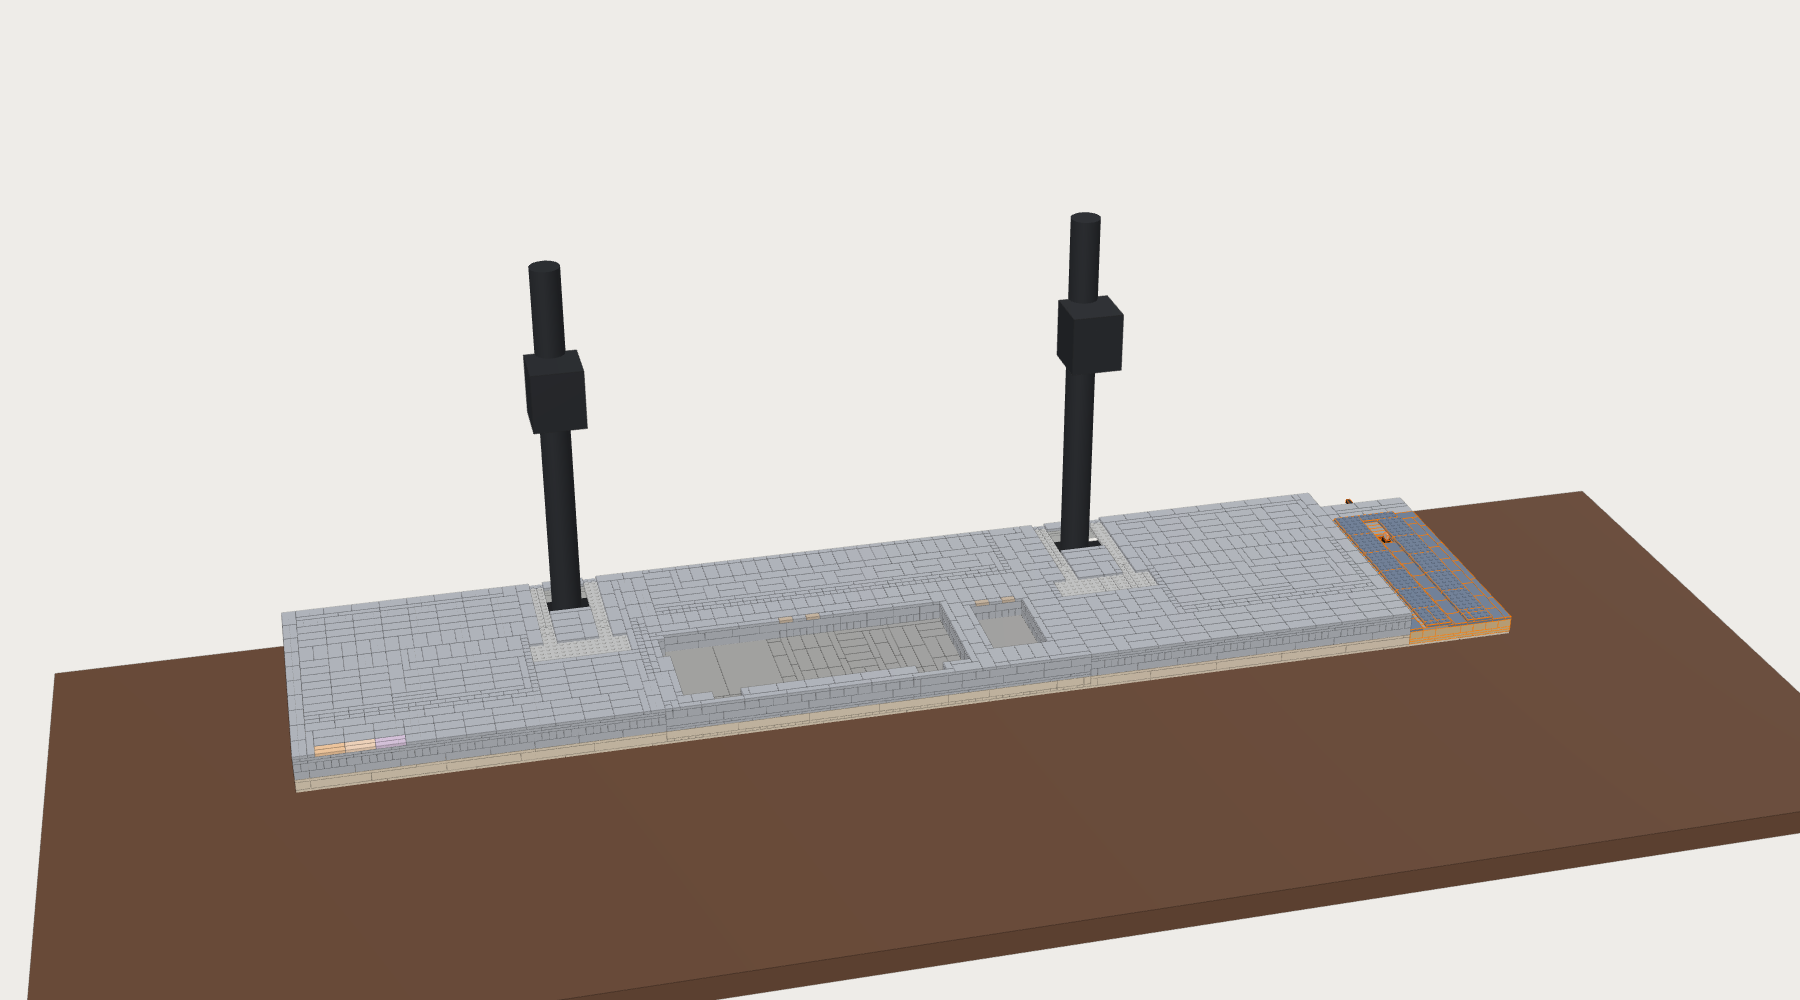
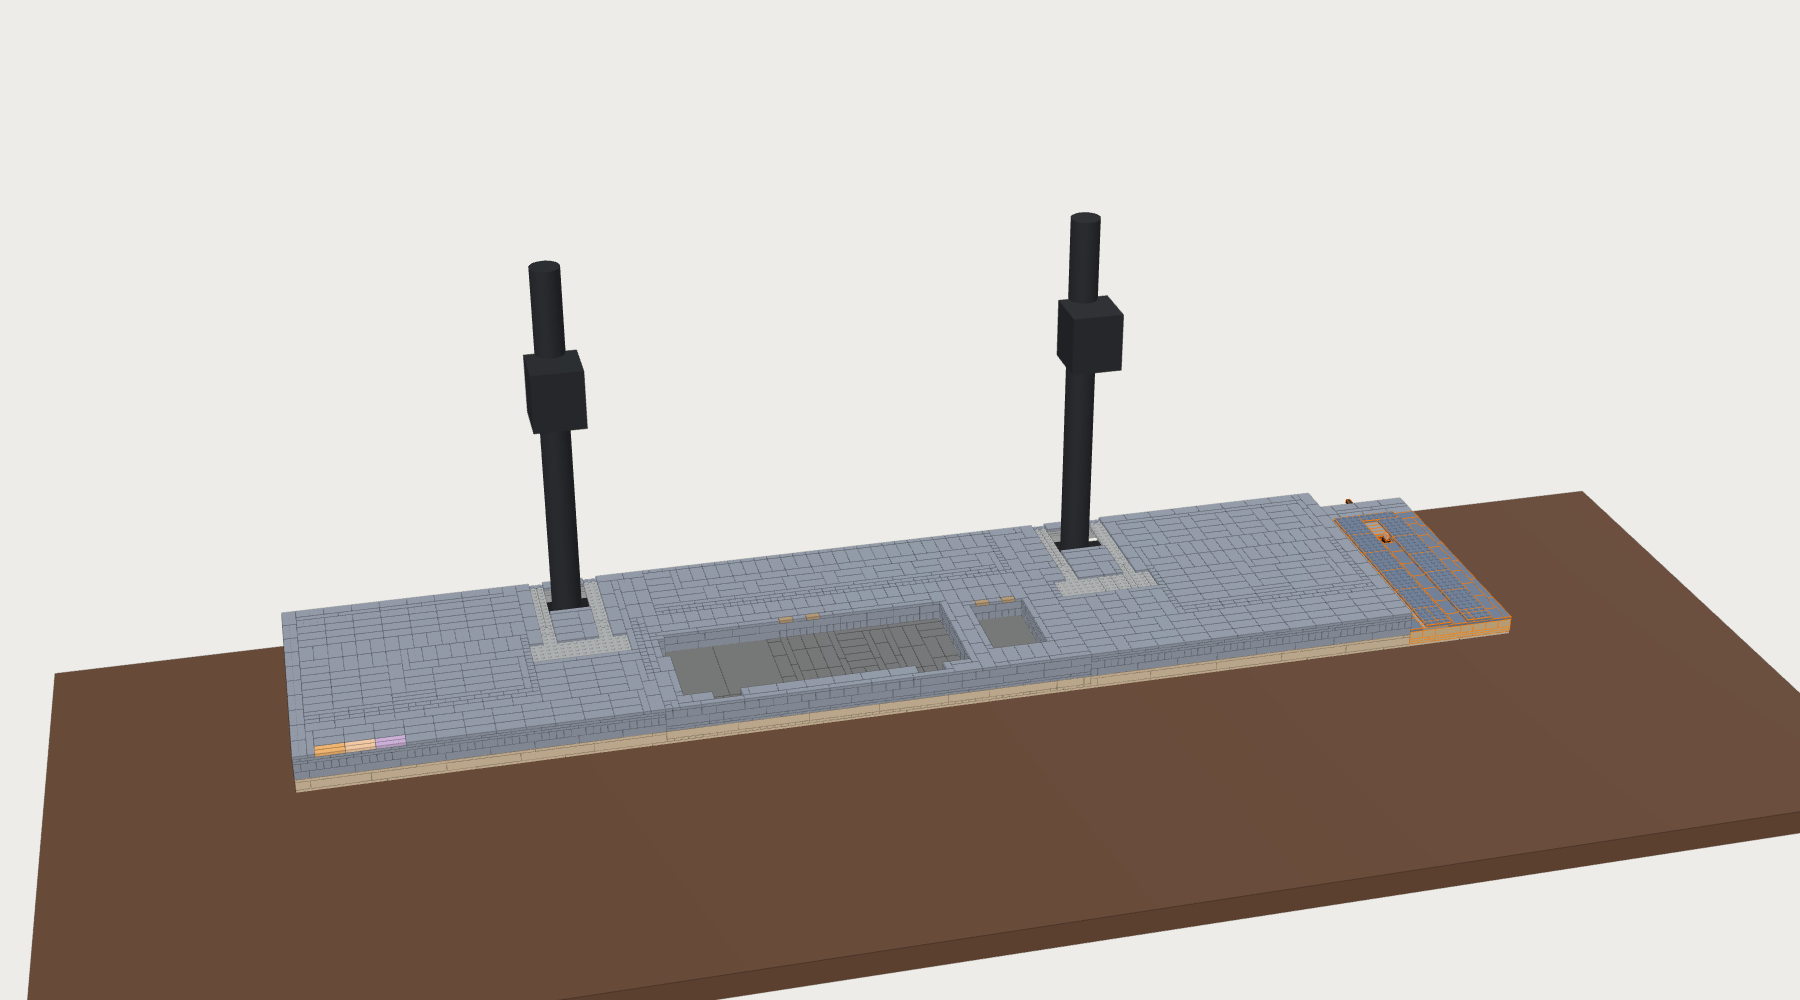
LEGO station: README, final renders and lite variant
README for the full station: monitor research and what to measure, how
the monitors mount on the clamped VESA poles, base layout, colours and
Sand Blue fallbacks, build order, cable routing, safety, checks and
uncertainties. Final overview, back, exploded, neck section and 16 step
renders; lite variant files under station/lite. Pointer from the pocket
base README.

Claude-Session: https://claude.ai/code/session_015TFqkUDL9DQ7CfKB1UTNsy

Changed region(s): [[0.1556, 0.496, 0.7778, 0.775]]

diff --git a/night-array/kit/lego/station/README.md b/night-array/kit/lego/station/README.md
@@ -1,0 +1,196 @@
+# Night Array station: the full LEGO build
+
+The whole Night Array desk station in LEGO: a long hollow base with the keyboard and mouse charging pockets, two short necks, one brick-built frame round two 27" screens with a centre seam, and the laptop dock at the right end. Sand Blue with a Tan lower band, black pocket floors, gold charge marks and pastel accents, after the concept image.
+
+![overview](overview.png)
+
+Everything here is generated by [`../make_lego_station.py`](../make_lego_station.py). It reuses the pocket tray from [`../make_lego_base.py`](../make_lego_base.py) and the dock from [`../make_lego_dock.py`](../make_lego_dock.py); read [`../README.md`](../README.md) and [`../dock/README.md`](../dock/README.md) for those two parts, because their fitting instructions (pads, foam, Newnex plug, felt) are unchanged and are not repeated in full here.
+
+**The one rule the design is built round: LEGO never carries a monitor.** Each monitor hangs on a steel VESA pole mount that is clamped to the desk. The necks and the frame are cladding.
+
+## At a glance
+
+| | Full | Lite (`--lite`) |
+|---|---|---|
+| Size | 1408 × 320 × 534 mm (176 × 40 studs) | same |
+| LEGO parts | **5,217** in 140 part/colour lines | **4,469** |
+| LEGO cost (estimate, ±40 %, no shipping) | about **$1,310** | about **$1,130** |
+| Parts that are not LEGO | about **$116** ([list](non-lego-parts.md)) | same |
+| LEGO weight (estimate) | 7.7 kg | 7.3 kg |
+
+Lite leaves the Sand Blue tiles off the deck except for a two-stud border, so the deck is Light Bluish Gray with studs showing ([picture](lite/overview.png)). Everything else is the same. Its files are in [`lite/`](lite/).
+
+| Section | What it is | Parts | Est. cost |
+|---|---|---|---|
+| base | floor, outer wall, hidden ribs, deck plates, deck tiles, strip behind the dock | 2,025 (lite 1,325) | $583 (lite $411) |
+| pockets | the keyboard + mouse pocket block with the pad cavities | 784 | $212 |
+| dock | laptop dock | 668 | $132 |
+| necks | two necks | 378 | $84 |
+| frame | screen frame | 1,362 | $300 |
+
+By colour (full): Sand Blue 3,528, Light Bluish Gray 1,219 (all hidden except where noted below), Tan 327, Black 58, Light Nougat 37, Lavender 26, Bright Light Orange 18, Pearl Gold 4.
+
+The station is 1.41 m wide because two 27" monitors side by side are 1.24 m and the dock stands beside them. The keyboard and mouse pockets are the real size of the Keychron K3 Ultra and the Lenovo X9, so they look smaller against the base than in the concept image.
+
+## Files
+
+| File | What it is |
+|---|---|
+| `night-array-station.ldr` | LDraw model (MPD inside one `.ldr`): a main model plus one submodel per section (`station-base.ldr`, `-pockets`, `-dock`, `-necks`, `-frame`), with STEPs. Opens in BrickLink Studio, LeoCAD, LDCad |
+| `parts.csv` | every part/colour line with quantity, estimated price and how many LEGO sets contain that part in that colour |
+| `bricklink-wanted.xml` | BrickLink wanted list: Wanted → Upload → paste |
+| `bricks.json` | every part as a box in mm, same schema as [`../bricks.json`](../bricks.json) and [`../dock/bricks.json`](../dock/bricks.json), plus `section` on each brick; `reference[]` holds both monitors, the stands, bars, keyboard, mouse, pads, Plugable box and laptop |
+| `non-lego-parts.md`, `.json` | stands, bars, stand-offs, felt, foam, with prices; pointers into [`../../parts.json`](../../parts.json) for the electronics |
+| `checks.json` | the 20 self-checks, sizes, part count and cost by section |
+| `part-colour-availability.json` | which part exists in which colour (Rebrickable set inventories, 2026-11-11); the script only uses a part in a colour that at least 5 sets contain |
+| `overview.png`, `back.png`, `exploded-sections.png`, `section-neck.png`, `steps/step-01…16.png` | renders |
+| `lite/` | the same files for the lite variant |
+
+## Your two monitors: what was found, and what you must confirm
+
+The opening for each monitor is cut to that monitor, so the numbers matter to about 1 mm. **Measure both monitors before you order bricks.**
+
+| | Left (default) | Right (default) |
+|---|---|---|
+| Model used | **Acer KB272 EBI** (`UM.HK2AA.E02`) | **Sceptre E275W-FPT** |
+| Why this one | "KB272" with no suffix: the EBI is the common US model | the label says "F27". No Sceptre page uses that name. One marketplace listing calls a 27" FHD 75 Hz HDMI ×2 + VGA Sceptre "F27", which matches the E275W-FPT family |
+| Housing W × H | 614.7 × 367.1 mm | 612.6 × 359.2 mm |
+| Depth | 66.7 mm at the rear bulge | 28 mm at the edge; **45 mm at the bulge is a guess** |
+| Weight without stand | 4.73 kg (may include the stand; then about 3.4 kg) | 3.00 kg |
+| VESA | 100 × 100 (one review says 75) | 100 × 100, M4 × 10 |
+| Power | internal supply, AC cord (to confirm) | external 12 V 3 A adapter |
+| Ports | HDMI 1.4 + VGA, rear, plugs point down | 2 × HDMI + VGA + audio, rear |
+| Confidence | medium | medium-low that it is your model; the E275W-FPT figures themselves are Sceptre's |
+| Sources | acer.com product page, Acer store, devicebeast, displayninja | sceptre.com support sheet and product page |
+
+Other variants are already in the `MONITORS` block: `acer_kb272_e0bi` (newer slim chassis, 611.5 × 361.3 × 45.2 mm, external adapter; low confidence), `sceptre_e275w_fpt1`, `sceptre_e275w_19203rs` (VESA **75**, internal supply, 4.3 kg) and `sceptre_e275w_19203rd` (thick bezels, 623.8 mm wide).
+
+Measure and confirm, for each monitor:
+
+1. The exact model on the rear label (full string with the suffix).
+2. Housing width and height without the stand, to 0.5 mm.
+3. VESA holes: are there four threaded holes on the back, and are they 75 or 100 mm apart?
+4. `vesa_to_front`: from the flat face the VESA plate bolts onto to the front glass.
+5. `top_edge_depth`: how thick the housing is along its top edge.
+6. Bezels: from the housing edge to the first lit pixel at the sides, top and bottom (show a white screen).
+7. Where the ports and the buttons are, and which way the plugs point. If the buttons are on the bottom edge, tell the script (`"buttons": "bottom"`) and leave a finger gap in the bottom beam under them.
+8. Internal power supply or external brick.
+
+Then edit the `MONITORS` block at the top of `make_lego_station.py` (or add a new entry) and run:
+
+```
+python3 night-array/kit/lego/make_lego_station.py --left <key> --right <key>
+```
+
+The frame width, base width, both openings, the bezel lips, the necks, the stand-offs and every check follow from that block. The script exits non-zero if a check fails.
+
+**Taking the Sceptre apart: don't.** There is no benefit, because the LEGO bezel already hides the housing. An opened monitor exposes the backlight driver and, on models with an internal supply, mains; the panel's edge is fragile without its housing; and a bare panel has no VESA mounting points, so nothing safe would be left to hang it from. The design assumes two whole monitors.
+
+**If a monitor has no VESA holes.** All the candidate models above have them. If yours does not, use a clamp-on adapter (for example VIVO `MOUNT-UVM01`, $39.99) between the monitor and the pole mount. Its arms grip the top and bottom edge of the housing, so three things change: raise the top and bottom clearance for that opening so the arms fit (the opening check will then need its limit widened), expect the retaining lips to move or go, and add the adapter's thickness to `vesa_to_front`.
+
+## How the monitors are mounted
+
+![section through a neck](section-neck.png)
+
+Chosen structure: **two VIVO `STAND-V001C` single-monitor pole mounts, one per monitor, clamped to the back edge of the desk.** $34.99 each; steel pole 17.7 in (450 mm), fixed tilt bracket, rated 17.6 lb (8 kg), VESA 75 and 100, C-clamp for desks 10–88 mm thick or a grommet bolt through a hole. The monitors are flat, in one plane, with no toe-in.
+
+Why this one:
+
+- A freestanding stand (VIVO `STAND-V001H`) has a V-shaped steel foot 15.5 × 11 in that would lie under the charging pads, inside the 20 mm steel keep-out, and it cannot resist a 50 N push at the top of the screen by itself.
+- One dual stand (VIVO `STAND-V002F`) has one centre pole, so it gives no pole to put inside either neck, and the same foot problem.
+- With clamped poles the desk takes the load. The checks give: 50 N at the top of the screen plus the monitor's own weight is about 30 N·m at the clamp, which is 660 N in the clamp screw (margin ×7.5 on an assumed 5 kN) and 24 MPa in the pole (×10). A 10° tilt alone is 7 N·m.
+- Not clamped, the same push would tip the whole station away from you (margin ×0.98), and only if LEGO held the poles. So the clamps, or the grommet bolts, are mandatory.
+
+How it goes together:
+
+- The base's back edge sits on the desk's back edge. Each pole stands about 40 mm in from that edge, inside a clamp bay: a 112 × 96 mm gap in the floor with a 22 mm high doorway in the back wall, so the clamp plate sits on the desk itself, not on LEGO.
+- The pole comes up through a hole in the deck (6 or 7 studs wide, 7 long) between the two cheeks of the neck, with at least 6.5 mm of air all round. Push a ring of foam between pole and cheeks.
+- The bracket holds the VESA plate at about 323 mm above the desk. The thinner monitor gets four M4 stand-offs (22 mm with the default numbers) so both glass faces are in one plane, 4.3 mm behind the bezel bricks.
+- The frame stands on the two pedestals. It does not touch the monitors: 1.7–2.7 mm of air round each housing (the left opening needs a 2 mm felt strip on each side face, because the stud grid would otherwise leave 4.65 mm). The bezel lips overlap the black border of each screen without reaching the picture.
+- The frame cannot fall forward: three short blocks under the top beam hang 9.6 mm down behind each monitor's top edge. Pad them with foam to leave about 2 mm.
+- LEGO alone would sag over 1.28 m, so each beam has an aluminium flat bar on edge in a slot one stud wide and two bricks high: 48 in in the bottom beam, 36 in in the top beam. Deflection with the bars is about 0.2 mm.
+- The frame is 40 mm deep and has no back, so the monitors' vents, ports and rear buttons stay open, and nothing is sealed over an internal power supply.
+- The housings are 14 mm apart (one stud of web plus clearance), so the pictures are about 30 mm apart. Without the web it would be about 20 mm, but the top beam would lose its centre support.
+
+A 50 N push on the LEGO frame itself will shift the frame until it bears on the monitor's edge; the monitor then takes it into the pole. The frame is cladding and can be knocked loose; the monitors cannot.
+
+## The base
+
+![exploded by section](exploded-sections.png)
+
+- **Pocket block** (61 × 26 studs, in the middle, centred on the seam between the screens): exactly the tray of the pocket-base build. Keyboard pocket 41 × 16 studs, mouse pocket 8 × 13, one Anker 313 pad under each in a 13 × 13 cavity, one 3.2 mm layer of black 8 × 16 tiles between pad and device, cable channels to the back. The same pad checks pass.
+- **Hollow part**: an outer wall two studs thick, a spine wall 12–16 studs in from the back, a second line of support at row 30, a few ribs, deck plates on top, deck tiles on those. 35 mm clear inside.
+- **Three removable lids** (deck plates held together by their own tiles; nothing bridges out of them): over the Plugable bay at the right, over a spare bay at the left, and over the rear zone between the necks where the pad cables run.
+- **Plugable UD-6950PDH**: in the right bay, 240 × 176 mm, against the spine wall, with 91 mm of cable space in front of it under a beam on two posts.
+- **Power strip**: the Tripp Lite strip (610 mm) does not fit between the clamp bays. Keep it, the dock's 130 W brick and any monitor adapter outside, behind or under the desk. No mains enters the LEGO.
+- **Cable exits**: the two clamp doorways, two 4-stud doors in the back wall, and the dock's own channel through the strip behind it.
+- **Dock**: the dock build, repacked with parts that exist in Sand Blue, Tan outer panel, standing on the shared floor plates at the right end. Plug seat, pocket, saddle, roof tiles and liners are unchanged (overmold face 0.39 mm below the landing plane).
+
+## Colours and where Sand Blue was not possible
+
+Sand Blue is a limited colour. The script only uses these in it: bricks 1×1, 1×2, 1×4, 1×6, 2×2, 2×3, 2×4; plates 1×1, 1×2, 1×3, 1×4, 2×2, 2×3, 2×4, 2×6, 4×6; tiles 1×1, 1×2, 1×3, 1×6, 2×2, 2×3, 2×4; slopes 33° 3×2, 45° 2×1, inverted 45° 2×1, curved 2×1 and 2×2. The least common lines are in 6–7 sets each (Brick 2×3, Plate 2×6, Tile 2×3, inverted slope in Sand Blue; Plate 1×3 in Lavender; Plate 4×10 in Bright Light Orange); `parts.csv` has the count for every line, so you can see what may be slow to find.
+
+Light Bluish Gray is used for everything hidden (ribs, inner wall row, deck plates, core of the pocket block), and in four visible places:
+
+- the two 1 × 16 lintels over the clamp doorways at the back, with a 2 × 16 plate on them;
+- the dock's jumper plates and its 1 × 4 roof tiles (no Sand Blue version; the tiles are under felt);
+- the dock's lead-in slopes and their tiles, which are the dock's light liner colour by design;
+- the deck, in the lite variant.
+
+The rounded frame corners are three steps of curved slopes at the top and inverted 45° slopes at the bottom, because the inverted curved slope barely exists in Sand Blue. The base's corners are square.
+
+## Build order
+
+One picture per step is in [`steps/`](steps/). The LDraw file has the same steps inside each section.
+
+1. **Floor.** Tan plates over the whole footprint, including under the dock. Leave the two clamp gaps.
+2. **Pocket block, lower half.** Plates, then bricks and plates round the two pad cavities.
+3. **Hollow base walls and ribs**, and the strip behind the dock. Leave the clamp bays open at the back.
+4. **Not LEGO.** Clamp both poles to the desk through the bays. Foam and pads into the cavities, micro-USB edge toward the channel. Plugable box into the right bay. Run the cables.
+5. **Charging floor.** The three 8 × 16 tiles over the pads first, then the rest of the pocket floors.
+6. **Pocket walls.**
+7. **Deck plates.** Build each lid as its own group.
+8. **Top tiles**, gold marks, pastel patches.
+9. **Dock, lower part**, and fit the Newnex plug as in the dock build.
+10. **Dock walls.**
+11. **Necks**, round the poles.
+12. **Not LEGO.** VESA plates onto the monitors (stand-offs on the thinner one), hang them, set height and level. Both should end up 2–3 mm above the line of the frame's bottom beam.
+13. **Frame bottom beam** on the pedestals, 48 in bar in its slot.
+14. **Frame sides, web and bezel lips.**
+15. **Top beam**, 36 in bar, retaining lips, corners.
+16. **Liners and devices.** Felt in the dock, foam on the retaining lips, felt dots inside the bezel corners, then laptop, keyboard, mouse.
+
+## Cable routing
+
+- **Pads**: each pad's cable leaves its cavity through the channel to the rear zone, then along it to the USB charger outside. Lift the rear lid to reach them.
+- **Monitors**: video cables drop from the rear bulge behind the frame's bottom beam, into the open channel between the cheeks of the neck, down beside the pole and out through the clamp doorway, or along the rear zone to the Plugable bay. Power leaves by the clamp doorway.
+- **Dock**: the Newnex cable runs straight out of the back of the dock, through the channel in the strip behind it, and leaves the station at the desk edge. It then loops round (bend radius 25 mm or more, so 60 mm of room behind the desk edge, or let the loop hang below the desk top) and comes back in through the right-hand door in the back wall, along the rear zone and through the spine door to the Plugable box. That is about 0.85 m of the 1 m cable.
+- **Plugable**: its brick stays outside; its DC lead and the monitor cables use the right-hand door.
+
+## Safety
+
+- No mains wiring by the builder, and no mains inside the LEGO. Power strip and power bricks stay outside where they can cool.
+- Do not exceed the mount's 8 kg per monitor. Both default monitors are well under.
+- The clamps need a desk edge that is 10–88 mm thick, solid, and free at the back. On a glass or hollow-core top use a different mount.
+- Keep metal away from the pads: the nearest metal in this design is 80 mm from a pad.
+- The frame is not a handle. Move the station in sections: lift the frame off first, then the monitors, then unclamp.
+- ABS softens with heat. Do not put a power brick in a closed bay, and do not close the back of the frame.
+
+## Checks
+
+All 20 pass (see `checks.json` for the numbers): layers packed exactly with no overlaps; every part in the table and available in its colour; every stud in a socket; one connected assembly, each section holding together on its own; pocket clearances; one tile layer over each pad; Qi keep-out; monitor openings 1.5–4 mm; nothing LEGO touching a monitor; retaining lips; pole clearance, height and rated load; LEGO-only tip angle (53° or more in every direction, laptop docked or not); frame balance; bar deflection; clamped-pole loads at 10° tilt and 50 N; Plugable bay; power strip; overall size; dock plug arrangement.
+
+The LDraw placement of every part and orientation was also compared against the LDraw library geometry (111 combinations, no mismatch). That test needs network access and is not part of the script.
+
+## What is uncertain
+
+- **Both monitor models.** The Acer suffix and what Sceptre "F27" maps to are best guesses. A different chassis changes the openings by several mm.
+- **Acer width**: 614.7 mm (Acer) against 612.4 mm (one database). With 612.4 the left opening becomes 77 studs and needs no felt liner.
+- **Depths**: the Sceptre's 45 mm, both `vesa_to_front` values and both `top_edge_depth` values are estimates. They set the stand-off length and the foam on the retaining lips.
+- **Bezels** are estimated from the active area; the lips are sized from them.
+- **Stand dimensions** not published by VIVO: pole diameter (35 mm assumed), bracket depth (65 mm), clamp plate (100 × 90 × 12 mm) and how far in from the desk edge the pole stands (40 mm). They are in the `STAND` block. The clamp screw's 5 kN working load is an assumption too.
+- **Button and port positions** on both monitors were not confirmed.
+- **Weights and prices** of the LEGO are estimates. Prices are rough BrickLink averages with a ×2.2 factor for Sand Blue.
+- **Part availability** comes from set inventories, not from live BrickLink stock.
+- **The frame has not been built.** Its stiffness rests on the two bars and on the calculation above.
+- Coil positions in the keyboard and mouse, and the MacBook port positions, carry the same uncertainties as in the base and dock builds.

diff --git a/night-array/kit/lego/README.md b/night-array/kit/lego/README.md
@@ -2,6 +2,8 @@
 
 A LEGO build of the Night Array **pocket section** desk tray (the resin version is in [`../poc`](../poc/README.md)). It has a keyboard pocket for the Keychron K3 Ultra (with its NILLKIN Magic Tag receiver) and a mouse pocket for the Lenovo X9. Each device charges from an Anker 313 Qi pad hidden under its pocket, through **one layer of LEGO tiles (3.2 mm)**. Every part is a common, current LEGO part in Dark Bluish Gray, Black or Light Bluish Gray. No part contains metal.
 
+The full station built round this tray (base, necks, screen frame for two monitors, dock) is in [`station/`](station/README.md).
+
 ![assembled, keyboard and mouse ghosted](overview.png)
 
 | | |
